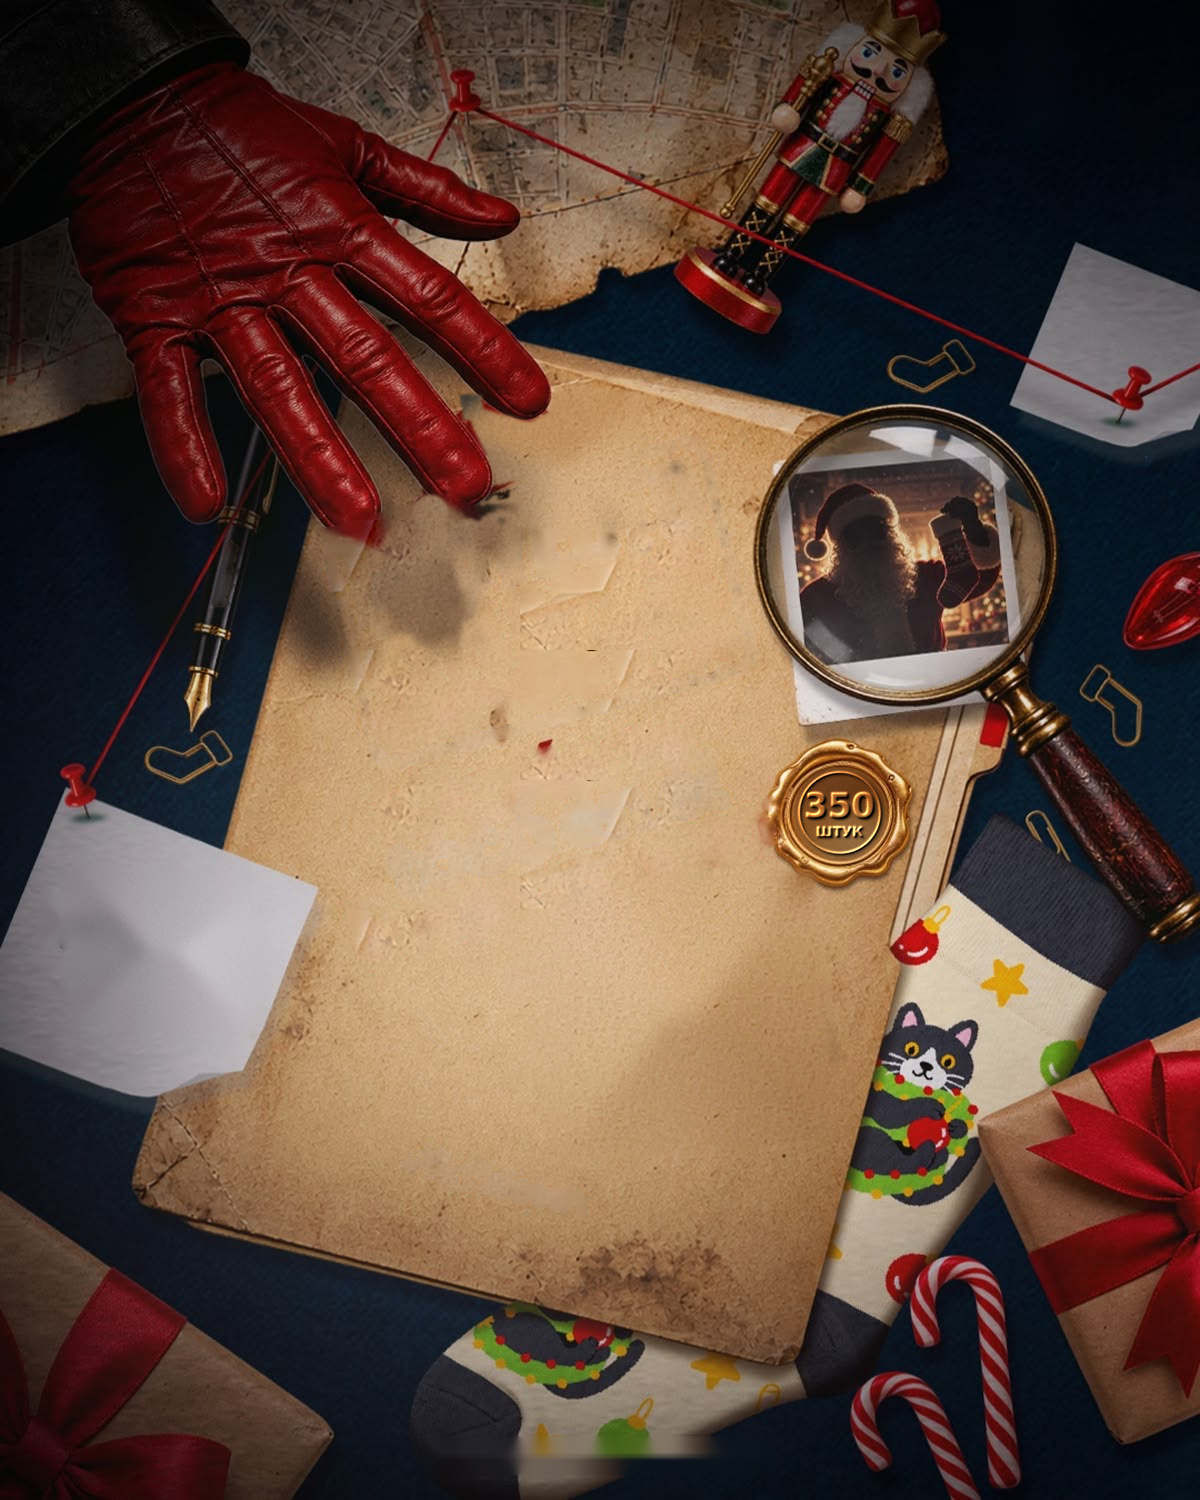
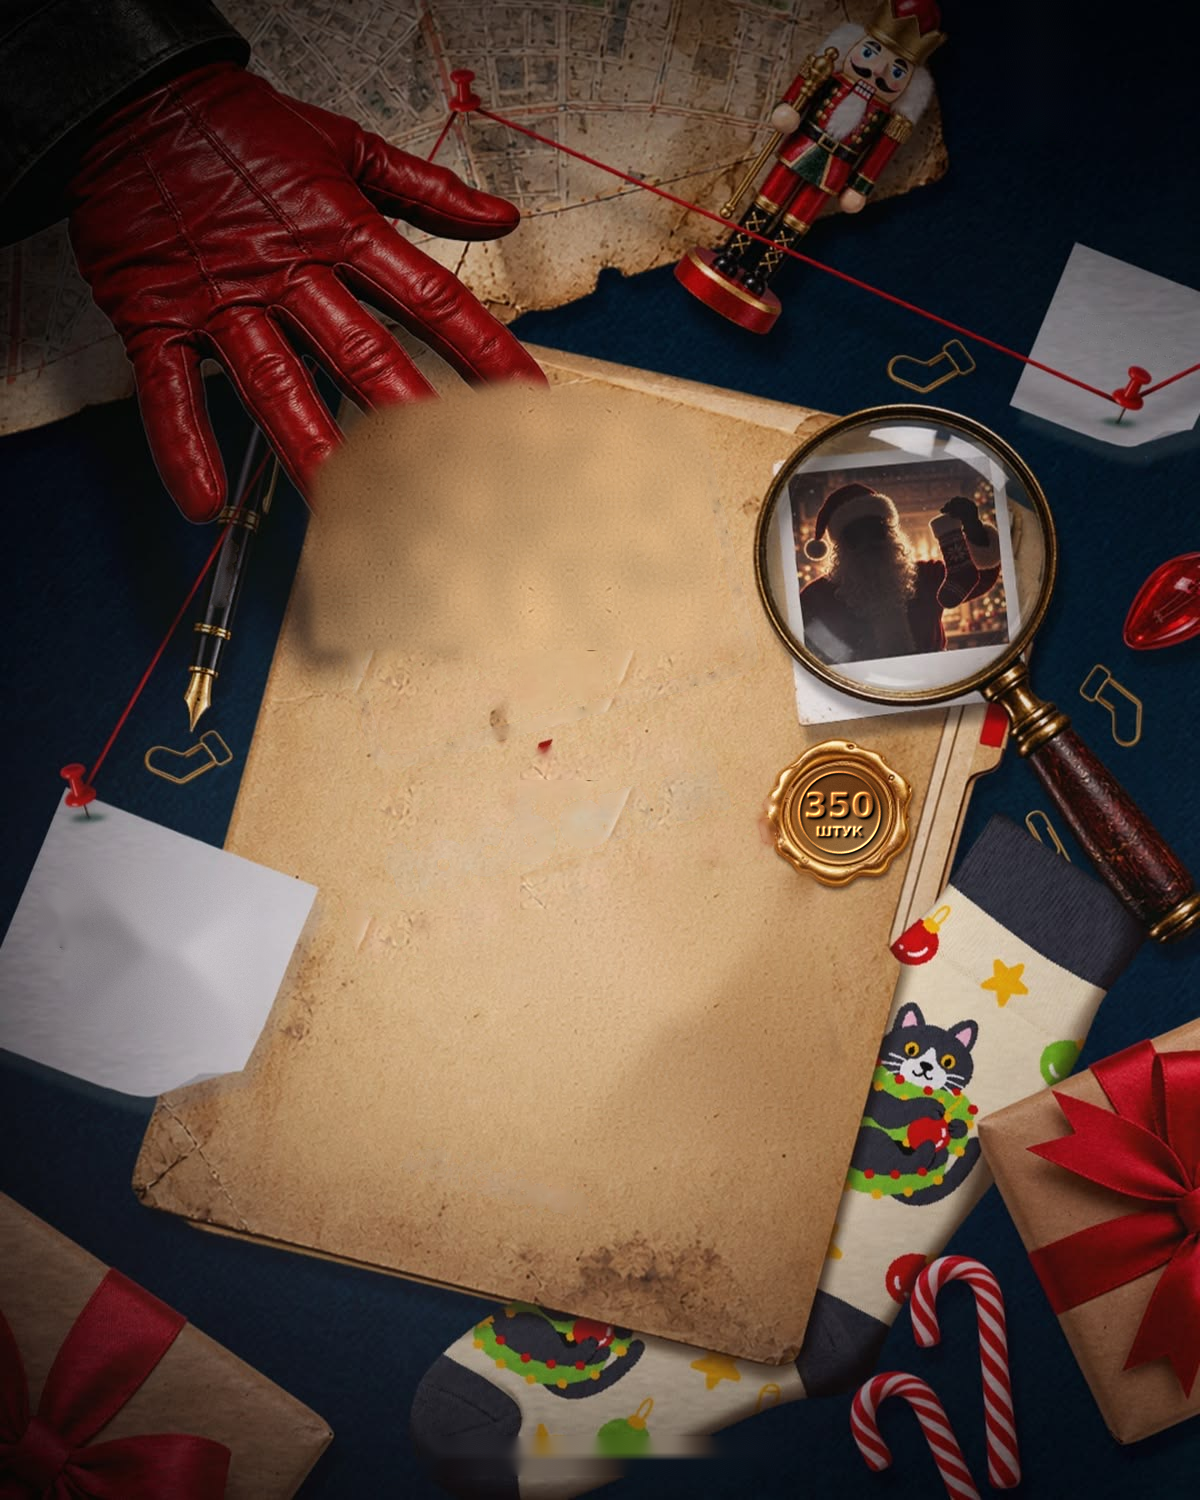
Rebuild clean paper under fingers and stamp
Claude-Session: https://claude.ai/code/session_01LLSo5JLaudvGqWrWmnB6UY

Changed region(s): [[0.2467, 0.2453, 0.4625, 0.4293], [0.4625, 0.3373, 0.5242, 0.3987]]

diff --git a/posters/make_seal.py b/posters/make_seal.py
@@ -97,3 +97,22 @@ src=imf[1000:1110,330:520];hp=src-cv2.GaussianBlur(src,(0,0),5)
 tile=np.tile(hp,(H//hp.shape[0]+1,W//hp.shape[1]+1,1))[:H,:W]
 f=cv2.GaussianBlur(hm.astype(np.float32),(0,0),1.5)[...,None]/255
 cv2.imwrite(P+'bg_dossier2.png',np.clip((low+tile)*f+imf*(1-f),0,255).astype(np.uint8))
+
+# --- rebuild clean paper under the stamp/fingers ---
+im=cv2.imread(P+'bg_dossier2.png').astype(np.float32);orig=cv2.imread(P+'ref6.jpg').astype(np.float32)
+area=poly([(312,470),(372,408),(520,378),(705,418),(712,650),(312,650)])
+ring=cv2.dilate(area.astype(np.uint8),np.ones((41,41),np.uint8))>0
+hsvc=cv2.cvtColor(im.astype(np.uint8),cv2.COLOR_BGR2HSV)
+paper=ring&~area&(hsvc[...,0]>=8)&(hsvc[...,0]<=30)&(hsvc[...,1]>40)&(hsvc[...,2]>120)
+ys,xs=np.nonzero(paper);X=np.stack([np.ones_like(xs),xs,ys,xs*xs,ys*ys,xs*ys],1).astype(np.float64)/1.0
+X[:,1:3]/=1000;X[:,3:]/=1e6
+coef=[np.linalg.lstsq(X,im[ys,xs,c],rcond=None)[0] for c in range(3)]
+yy,xx=np.mgrid[0:H,0:W];A=np.stack([np.ones_like(xx),xx/1000,yy/1000,xx*xx/1e6,yy*yy/1e6,xx*yy/1e6],-1)
+low=np.stack([A@c for c in coef],-1).astype(np.float32)
+src=orig[1005:1105,325:515];hp=src-cv2.GaussianBlur(src,(0,0),2.5)
+nz=cv2.GaussianBlur(np.random.default_rng(7).normal(0,1,(H,W)).astype(np.float32),(0,0),14);nz=nz/nz.std()*5
+t=np.concatenate([hp,hp[:,::-1]],1);t=np.concatenate([t,t[::-1]],0)
+tile=np.tile(t,(H//t.shape[0]+1,W//t.shape[1]+1,1))[:H,:W]
+fill=low+tile*.9+nz[...,None]*np.array([.6,.8,1.0],np.float32)
+f=cv2.GaussianBlur(area.astype(np.float32),(0,0),6)[...,None]
+cv2.imwrite(P+'bg_dossier2.png',np.clip(fill*f+im*(1-f),0,255).astype(np.uint8))
